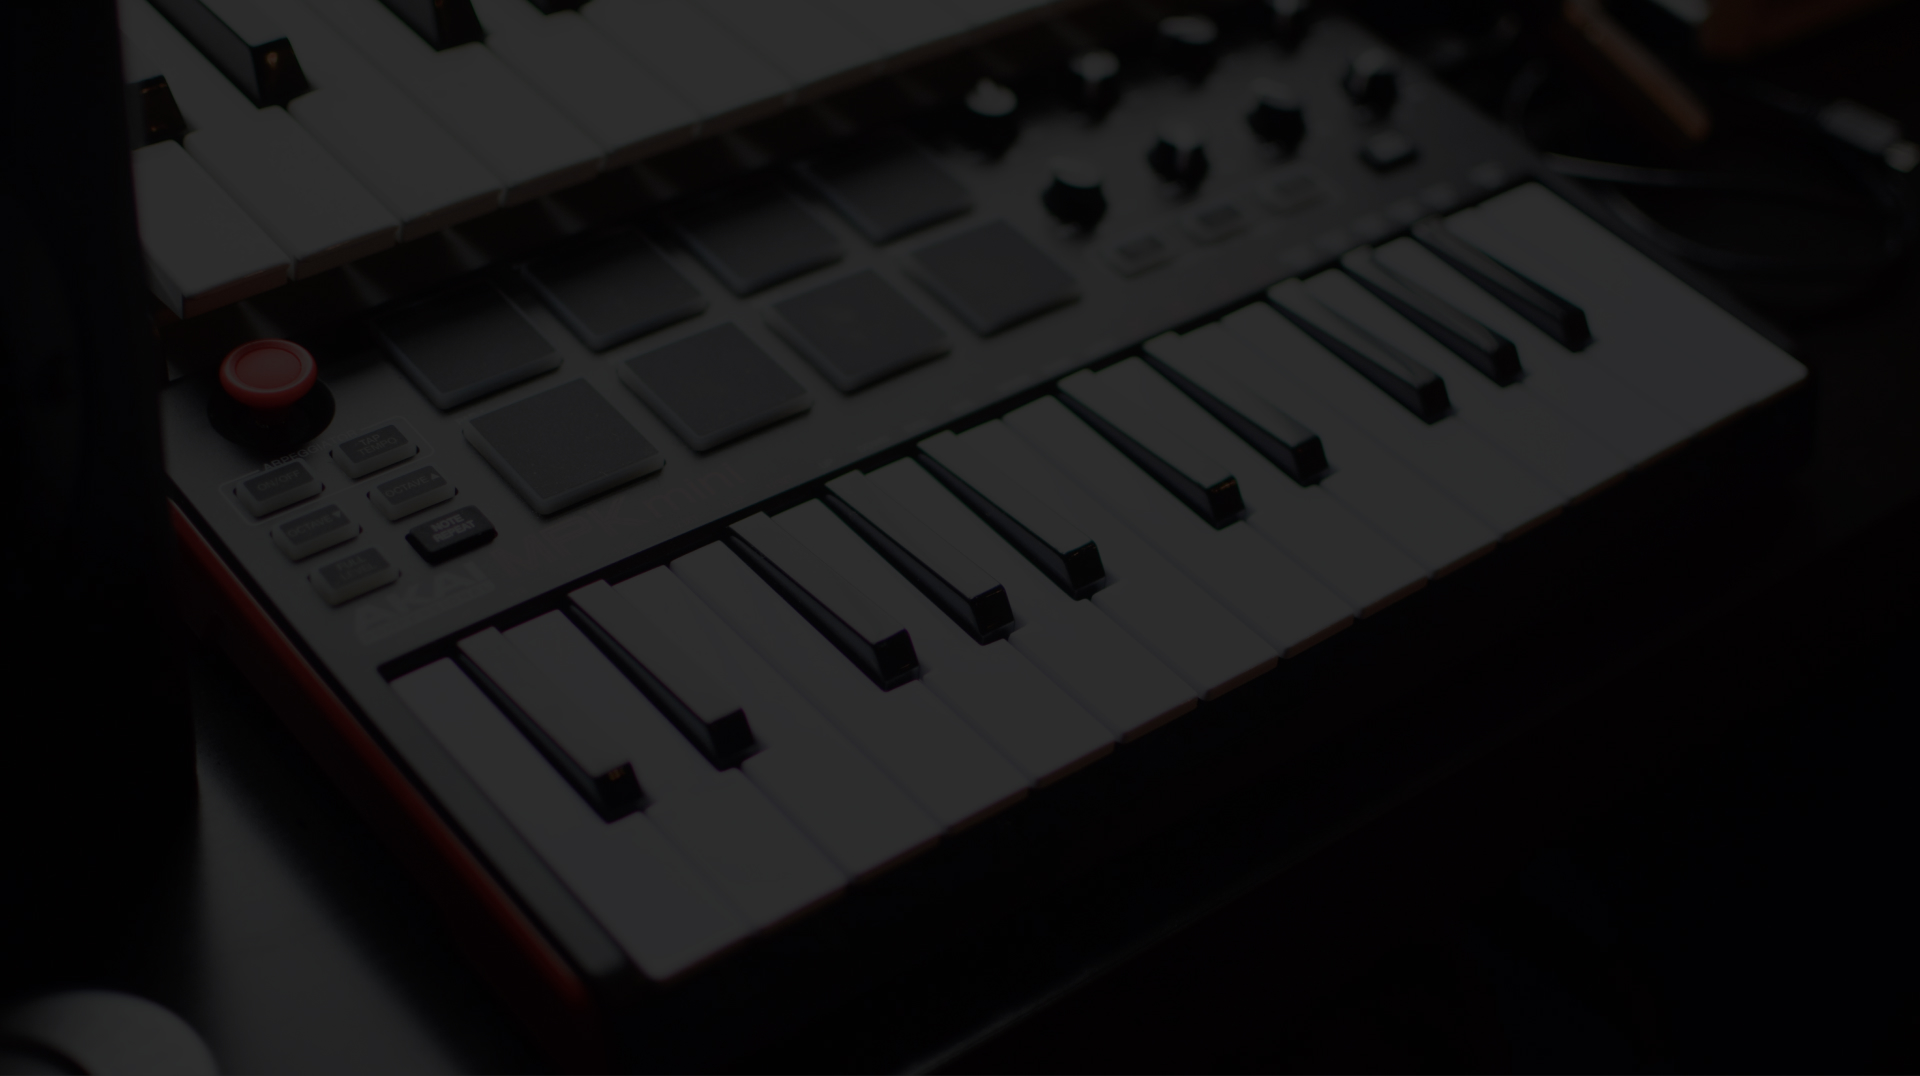
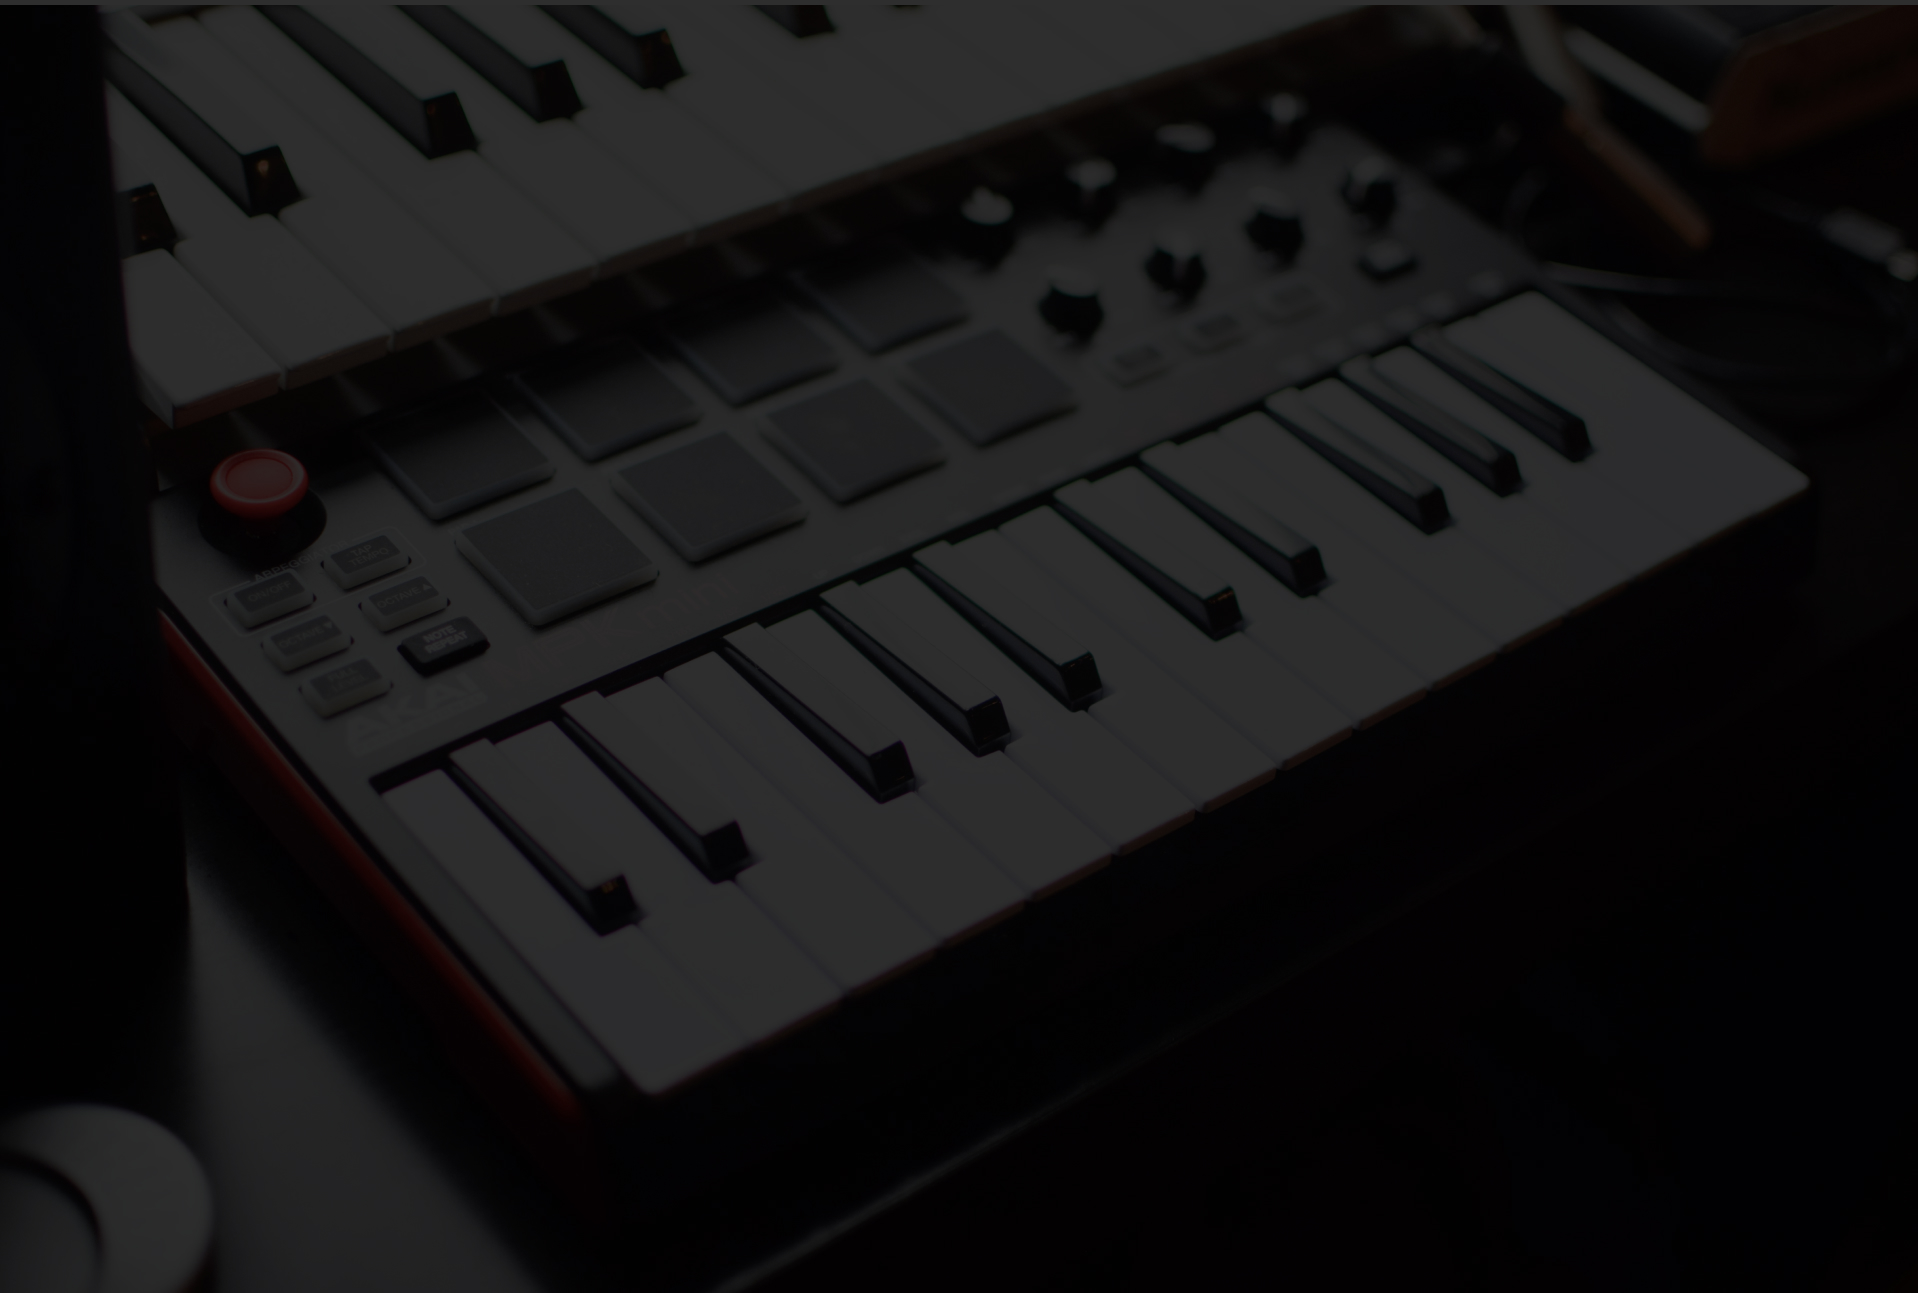
update images

diff --git a/src/components/lendingSections/Hero/Hero.js b/src/components/lendingSections/Hero/Hero.js
@@ -13,7 +13,7 @@ const Hero = ({ onPortfolioClick = () => {} }) => {
     query {
       bgImage: file(relativePath: { eq: "hero-bg.jpg" }) {
         childImageSharp {
-          fluid(maxWidth: 1280) {
+          fluid(maxWidth: 1280, quality: 95) {
             ...GatsbyImageSharpFluid_withWebp_noBase64
           }
         }
